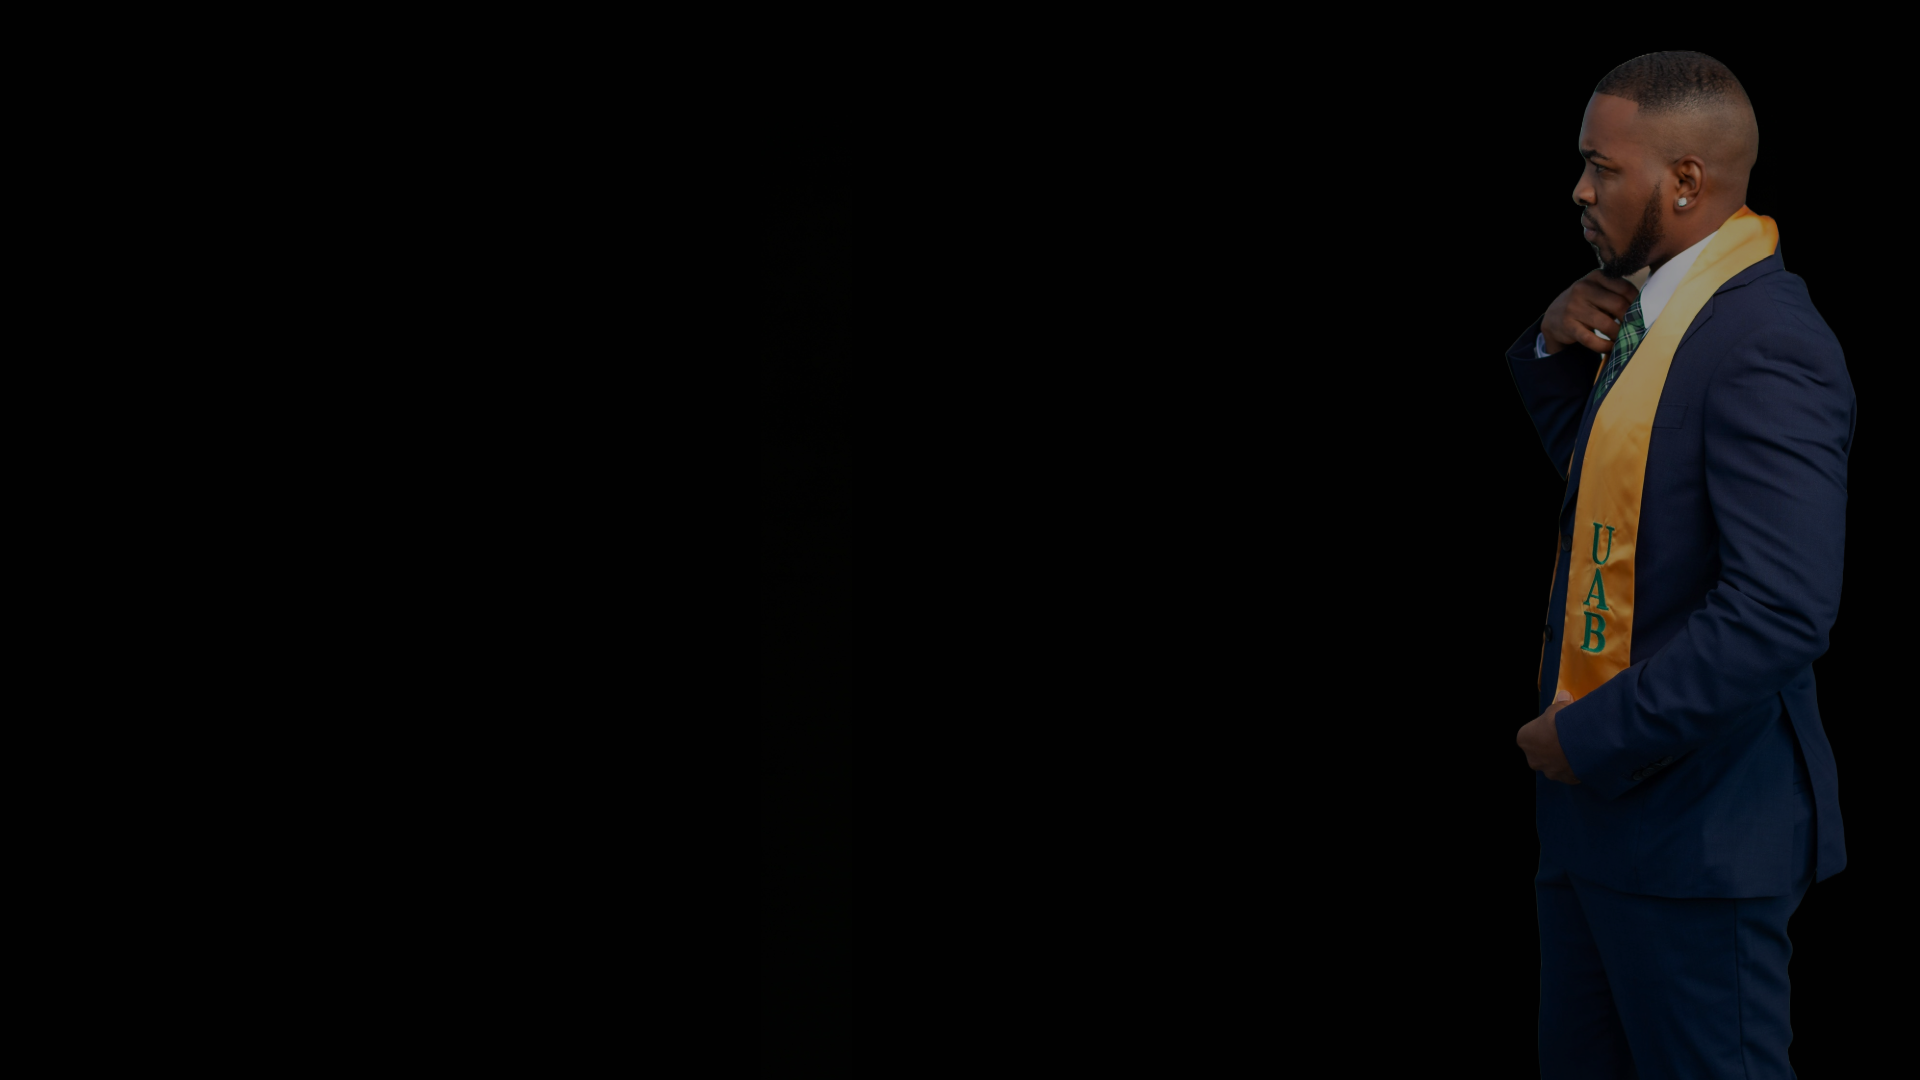
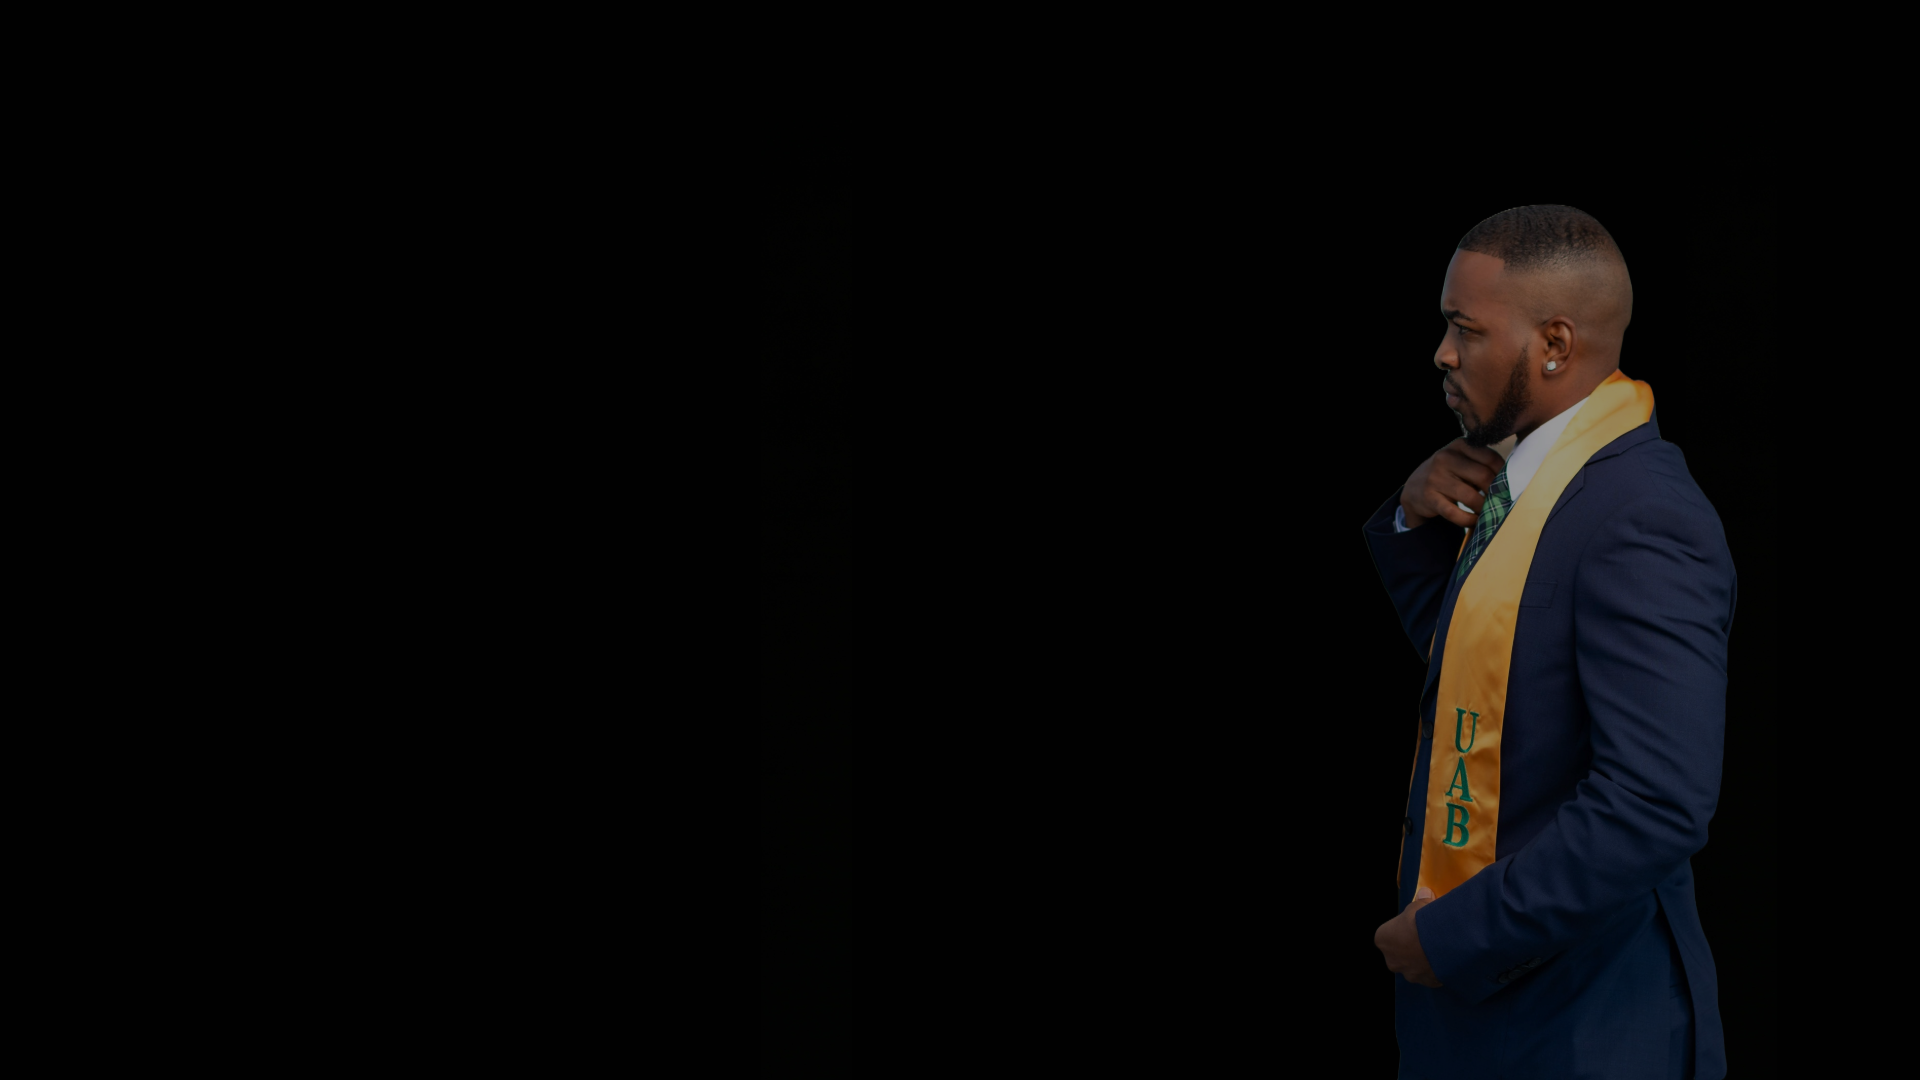
background update

Changed region(s): [[0.7188, 0.0306, 0.9688, 1.0]]

diff --git a/src/components/MyFormComponent.js b/src/components/MyFormComponent.js
@@ -13,8 +13,8 @@ function MyFormComponent() {
       .then(response => {
         console.log('Success!', response)// Success message
         setIsFormSubmitted(true); // Show success message to user
+        setTimeout(() => setIsFormSubmitted(false), 5000); // Hide success message after 5 seconds
         form.reset(); // Reset form
-      
       })
       .catch(error => console.error('Error!', error.message)); // Error message
   }

diff --git a/src/App.css b/src/App.css
@@ -5,6 +5,7 @@
   padding: 0;
   font-family: 'Poppins', sans-serif;
   box-sizing: border-box;
+  background-attachment: fixed;
 }
 
 html{
